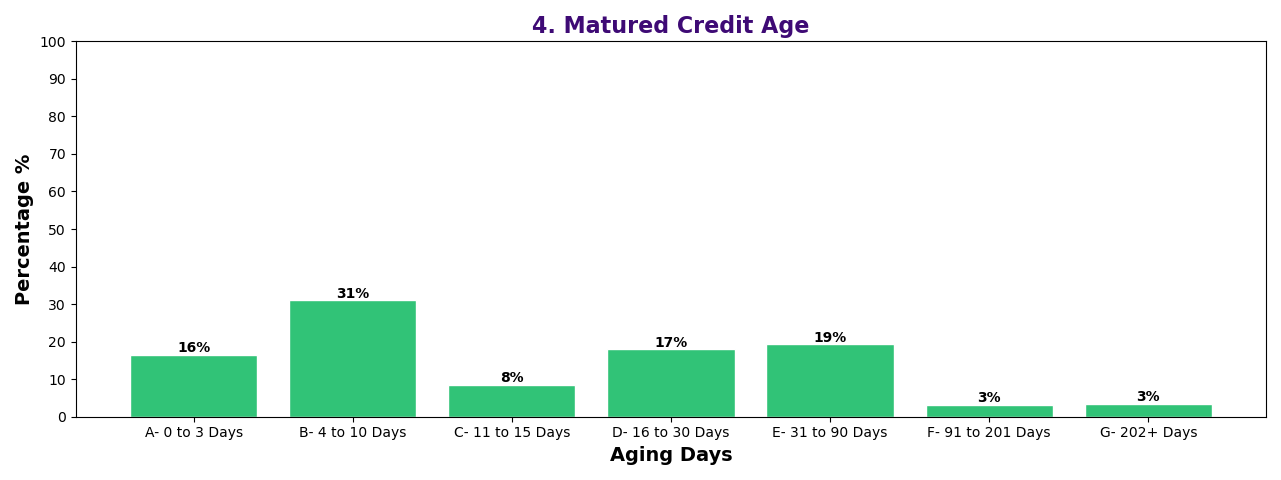
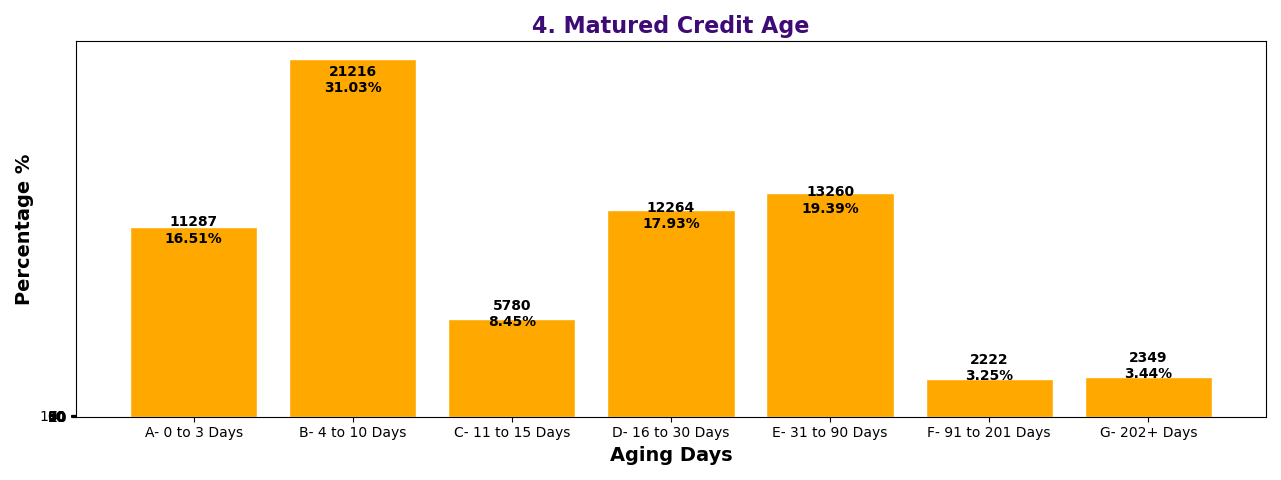
Add data level in matured credit aging

diff --git a/Functions/matured_credit_aging.py b/Functions/matured_credit_aging.py
@@ -66,7 +66,7 @@ def matured_credit():
     serial = [0, 1, 2, 3, 4, 5, 6]
     all = [i for i in aging_mature_df['Amount']]
     total = sum(all)
-    Amount = [i * 100 / total for i, j, in zip(aging_mature_df['Amount'], all)]
+    percent = [i * 100 / total for i, j, in zip(aging_mature_df['Amount'], all)]
 
     # plot
     barWidth = 0.80
@@ -74,12 +74,13 @@ def matured_credit():
              'F- 91 to 201 Days', 'G- 202+ Days')
     fig, ax = lib.plt.subplots(figsize=(12.81, 4.8))
     # Create green Bars
-    bar1 = lib.plt.bar(serial, Amount, color='#31c377', label='Matured', edgecolor='white', width=barWidth)
+    bar1 = lib.plt.bar(serial, all, color='#ffa800', label='Matured', edgecolor='white', width=barWidth)
 
     # Create orange Bars
-    for bar in bar1:
+    for bar, percent in zip(bar1, percent):
         height = bar.get_height()
-        ax.text(bar.get_x() + bar.get_width() / 2, height * .99, str(int(height)) + '%', ha='center', va='bottom',
+        ax.text(bar.get_x() + bar.get_width() / 2, height * .9,
+                str(int(height)) + '\n' + str('%.2f' %percent) + '%', ha='center', va='bottom',
                 fontweight='bold')
 
     # Custom x axis
@@ -87,7 +88,7 @@ def matured_credit():
     lib.plt.yticks(lib.np.arange(0, 101, 10))
     lib.plt.xlabel('Aging Days', color='black', fontsize=14, fontweight='bold')
     lib.plt.ylabel('Percentage %', color='black', fontsize=14, fontweight='bold')
-    lib.plt.title('4. Matured Credit Age',fontsize=16, fontweight='bold', color='#3e0a75')
+    lib.plt.title('4. Matured Credit Age', fontsize=16, fontweight='bold', color='#3e0a75')
     lib.plt.tight_layout()
     # lib.plt.show()
     print('4. Matured Credit Aging Created')

diff --git a/generate_all_kpi.py b/generate_all_kpi.py
@@ -8,12 +8,12 @@
 # credit.creditOutstanding()
 #
 # # ---. 3. NDM wise credit outstanding -----------------------------
-import Functions.ndm_outstanding as ndm_out
-ndm_out.ndm_wise_outstanding()
-#
+# import Functions.ndm_outstanding as ndm_out
+# ndm_out.ndm_wise_outstanding()
+
 # # # ---- 4. matured credit aging ------------------------------------
-# import Functions.matured_credit_aging as ndm_matured
-# ndm_matured.matured_credit()
+import Functions.matured_credit_aging as ndm_matured
+ndm_matured.matured_credit()
 # #
 # # # # ----- 5. NDM matured credit aging -----------------------------
 # import Functions.ndm_matured_credit_aging as ndm_aging
